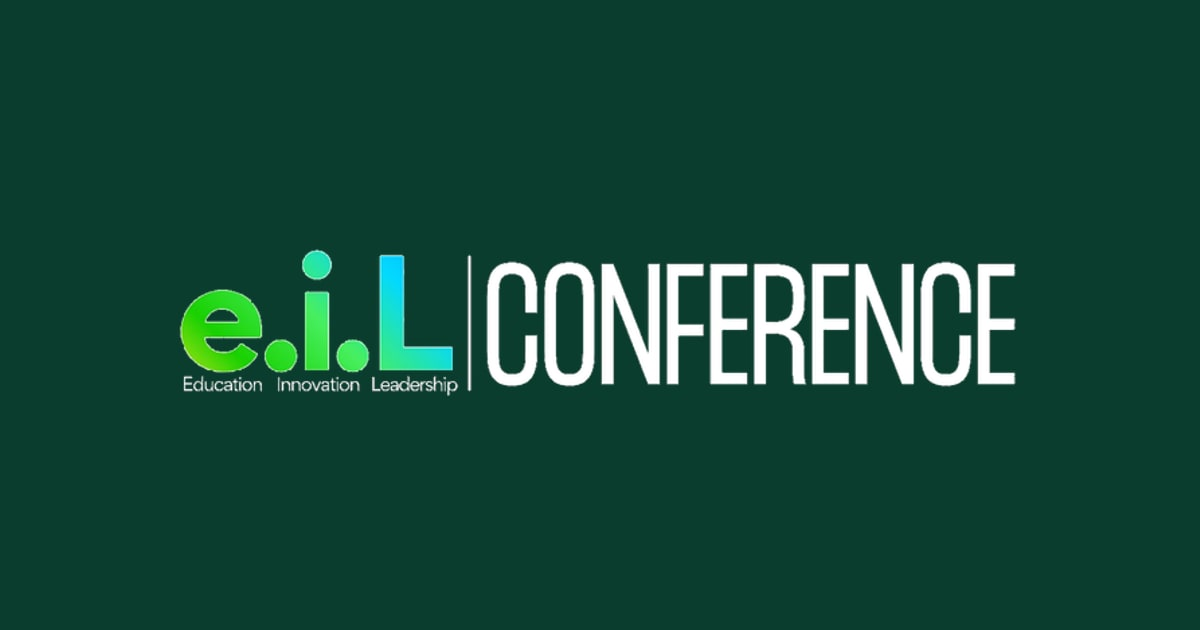
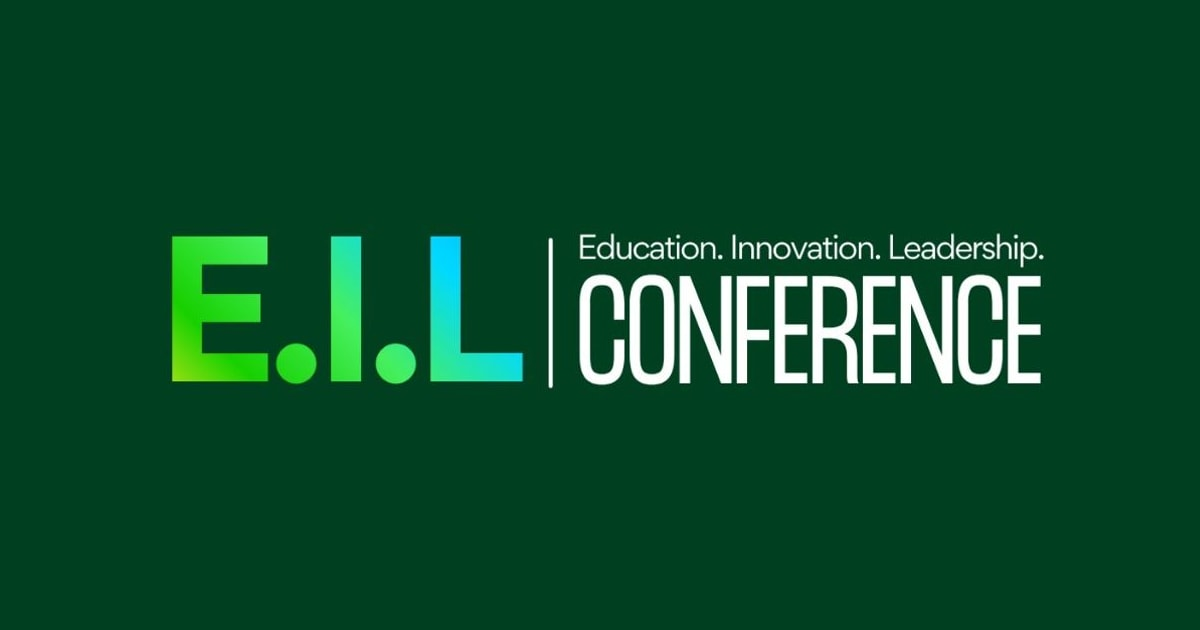
Use the provided e.i.L wordmark as the WhatsApp and social preview. (#18)
Replace the old share graphic and cache-bust the OG URL so messengers pick up the new file.

Changed region(s): [[0.1233, 0.3619, 0.8633, 0.6333]]

diff --git a/index.html b/index.html
@@ -15,12 +15,12 @@
 <meta property="og:description" content="A national conference for education leaders and career counsellors. 18-19 September 2026, Radisson Hotel, Gurugram.">
 <meta property="og:type" content="website">
 <meta property="og:url" content="https://eilconference.com/">
-<meta property="og:image" content="https://eilconference.com/images/og-share.jpg">
+<meta property="og:image" content="https://eilconference.com/images/og-share.jpg?v=2">
 <meta property="og:image:width" content="1200">
 <meta property="og:image:height" content="630">
 <meta property="og:image:alt" content="e.i.L Conference">
 <meta name="twitter:card" content="summary_large_image">
-<meta name="twitter:image" content="https://eilconference.com/images/og-share.jpg">
+<meta name="twitter:image" content="https://eilconference.com/images/og-share.jpg?v=2">
 <meta name="twitter:image:alt" content="e.i.L Conference">
 <meta name="twitter:title" content="EIL Conference 2026 - Education Leaders &amp; Career Counsellors Summit">
 <meta name="twitter:description" content="A national conference for education leaders and career counsellors. 18-19 September 2026, Radisson Hotel, Gurugram.">
@@ -56,7 +56,7 @@
         "@type": "ImageObject",
         "url": "https://eilconference.com/images/eil-logo.png"
       },
-      "image": "https://eilconference.com/images/og-share.jpg",
+      "image": "https://eilconference.com/images/og-share.jpg?v=2",
       "address": {
         "@type": "PostalAddress",
         "streetAddress": "Sushant Lok-1",
@@ -86,7 +86,7 @@
       "endDate": "2026-09-19",
       "eventAttendanceMode": "https://schema.org/OfflineEventAttendanceMode",
       "eventStatus": "https://schema.org/EventScheduled",
-      "image": "https://eilconference.com/images/og-share.jpg",
+      "image": "https://eilconference.com/images/og-share.jpg?v=2",
       "organizer": {
         "@id": "https://eilconference.com/#organization"
       },

diff --git a/privacy-policy/index.html b/privacy-policy/index.html
@@ -14,14 +14,14 @@
 <meta property="og:title" content="Privacy Policy | EIL Conference 2026">
 <meta property="og:description" content="How EIL Conference 2026 and Guby Rogers collect, use and store personal information from registrations and enquiries.">
 <meta property="og:url" content="https://eilconference.com/privacy-policy/">
-<meta property="og:image" content="https://eilconference.com/images/og-share.jpg">
+<meta property="og:image" content="https://eilconference.com/images/og-share.jpg?v=2">
 <meta property="og:image:width" content="1200">
 <meta property="og:image:height" content="630">
 <meta property="og:image:alt" content="e.i.L Conference">
 <meta name="twitter:card" content="summary_large_image">
 <meta name="twitter:title" content="Privacy Policy | EIL Conference 2026">
 <meta name="twitter:description" content="How EIL Conference 2026 and Guby Rogers collect, use and store personal information from registrations and enquiries.">
-<meta name="twitter:image" content="https://eilconference.com/images/og-share.jpg">
+<meta name="twitter:image" content="https://eilconference.com/images/og-share.jpg?v=2">
 <meta name="twitter:image:alt" content="e.i.L Conference">
 <!-- GSC_VERIFICATION_START -->
 <!-- Google Search Console: HTML-tag verification lives on the homepage (index.html). You only need one token for the domain. -->

diff --git a/contact/index.html b/contact/index.html
@@ -14,14 +14,14 @@
 <meta property="og:title" content="Contact | EIL Conference 2026">
 <meta property="og:description" content="Email, phone and Instagram for EIL Conference 2026 bookings, group rates and partnerships. Organised by Guby Rogers, Gurugram.">
 <meta property="og:url" content="https://eilconference.com/contact/">
-<meta property="og:image" content="https://eilconference.com/images/og-share.jpg">
+<meta property="og:image" content="https://eilconference.com/images/og-share.jpg?v=2">
 <meta property="og:image:width" content="1200">
 <meta property="og:image:height" content="630">
 <meta property="og:image:alt" content="e.i.L Conference">
 <meta name="twitter:card" content="summary_large_image">
 <meta name="twitter:title" content="Contact | EIL Conference 2026">
 <meta name="twitter:description" content="Email, phone and Instagram for EIL Conference 2026 bookings, group rates and partnerships. Organised by Guby Rogers, Gurugram.">
-<meta name="twitter:image" content="https://eilconference.com/images/og-share.jpg">
+<meta name="twitter:image" content="https://eilconference.com/images/og-share.jpg?v=2">
 <meta name="twitter:image:alt" content="e.i.L Conference">
 <!-- GSC_VERIFICATION_START -->
 <!-- Google Search Console: HTML-tag verification lives on the homepage (index.html). You only need one token for the domain. -->

diff --git a/refund-policy/index.html b/refund-policy/index.html
@@ -14,14 +14,14 @@
 <meta property="og:title" content="Cancellation &amp; No Refund Policy | EIL Conference 2026">
 <meta property="og:description" content="Cancellation and no-refund policy for EIL Conference 2026 delegate registrations and passes.">
 <meta property="og:url" content="https://eilconference.com/refund-policy/">
-<meta property="og:image" content="https://eilconference.com/images/og-share.jpg">
+<meta property="og:image" content="https://eilconference.com/images/og-share.jpg?v=2">
 <meta property="og:image:width" content="1200">
 <meta property="og:image:height" content="630">
 <meta property="og:image:alt" content="e.i.L Conference">
 <meta name="twitter:card" content="summary_large_image">
 <meta name="twitter:title" content="Cancellation &amp; No Refund Policy | EIL Conference 2026">
 <meta name="twitter:description" content="Cancellation and no-refund policy for EIL Conference 2026 delegate registrations and passes.">
-<meta name="twitter:image" content="https://eilconference.com/images/og-share.jpg">
+<meta name="twitter:image" content="https://eilconference.com/images/og-share.jpg?v=2">
 <meta name="twitter:image:alt" content="e.i.L Conference">
 <!-- GSC_VERIFICATION_START -->
 <!-- Google Search Console: HTML-tag verification lives on the homepage (index.html). You only need one token for the domain. -->

diff --git a/terms/index.html b/terms/index.html
@@ -14,14 +14,14 @@
 <meta property="og:title" content="Terms &amp; Conditions | EIL Conference 2026">
 <meta property="og:description" content="Terms and conditions for registering and attending EIL Conference 2026, organised by Guby Rogers.">
 <meta property="og:url" content="https://eilconference.com/terms/">
-<meta property="og:image" content="https://eilconference.com/images/og-share.jpg">
+<meta property="og:image" content="https://eilconference.com/images/og-share.jpg?v=2">
 <meta property="og:image:width" content="1200">
 <meta property="og:image:height" content="630">
 <meta property="og:image:alt" content="e.i.L Conference">
 <meta name="twitter:card" content="summary_large_image">
 <meta name="twitter:title" content="Terms &amp; Conditions | EIL Conference 2026">
 <meta name="twitter:description" content="Terms and conditions for registering and attending EIL Conference 2026, organised by Guby Rogers.">
-<meta name="twitter:image" content="https://eilconference.com/images/og-share.jpg">
+<meta name="twitter:image" content="https://eilconference.com/images/og-share.jpg?v=2">
 <meta name="twitter:image:alt" content="e.i.L Conference">
 <!-- GSC_VERIFICATION_START -->
 <!-- Google Search Console: HTML-tag verification lives on the homepage (index.html). You only need one token for the domain. -->

diff --git a/delivery-policy/index.html b/delivery-policy/index.html
@@ -14,14 +14,14 @@
 <meta property="og:title" content="Delivery Policy | EIL Conference 2026">
 <meta property="og:description" content="How EIL Conference 2026 tickets and confirmations are delivered after payment.">
 <meta property="og:url" content="https://eilconference.com/delivery-policy/">
-<meta property="og:image" content="https://eilconference.com/images/og-share.jpg">
+<meta property="og:image" content="https://eilconference.com/images/og-share.jpg?v=2">
 <meta property="og:image:width" content="1200">
 <meta property="og:image:height" content="630">
 <meta property="og:image:alt" content="e.i.L Conference">
 <meta name="twitter:card" content="summary_large_image">
 <meta name="twitter:title" content="Delivery Policy | EIL Conference 2026">
 <meta name="twitter:description" content="How EIL Conference 2026 tickets and confirmations are delivered after payment.">
-<meta name="twitter:image" content="https://eilconference.com/images/og-share.jpg">
+<meta name="twitter:image" content="https://eilconference.com/images/og-share.jpg?v=2">
 <meta name="twitter:image:alt" content="e.i.L Conference">
 <!-- GSC_VERIFICATION_START -->
 <!-- Google Search Console: HTML-tag verification lives on the homepage (index.html). You only need one token for the domain. -->
